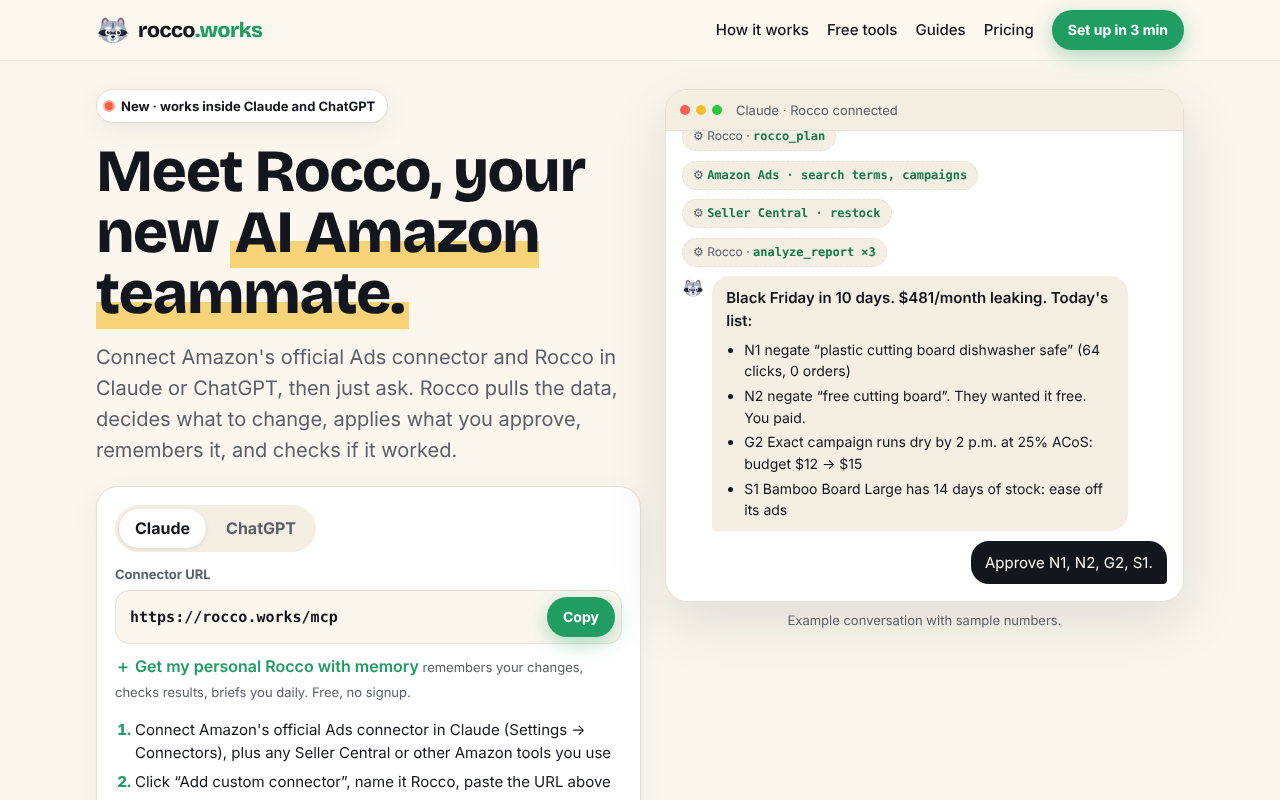
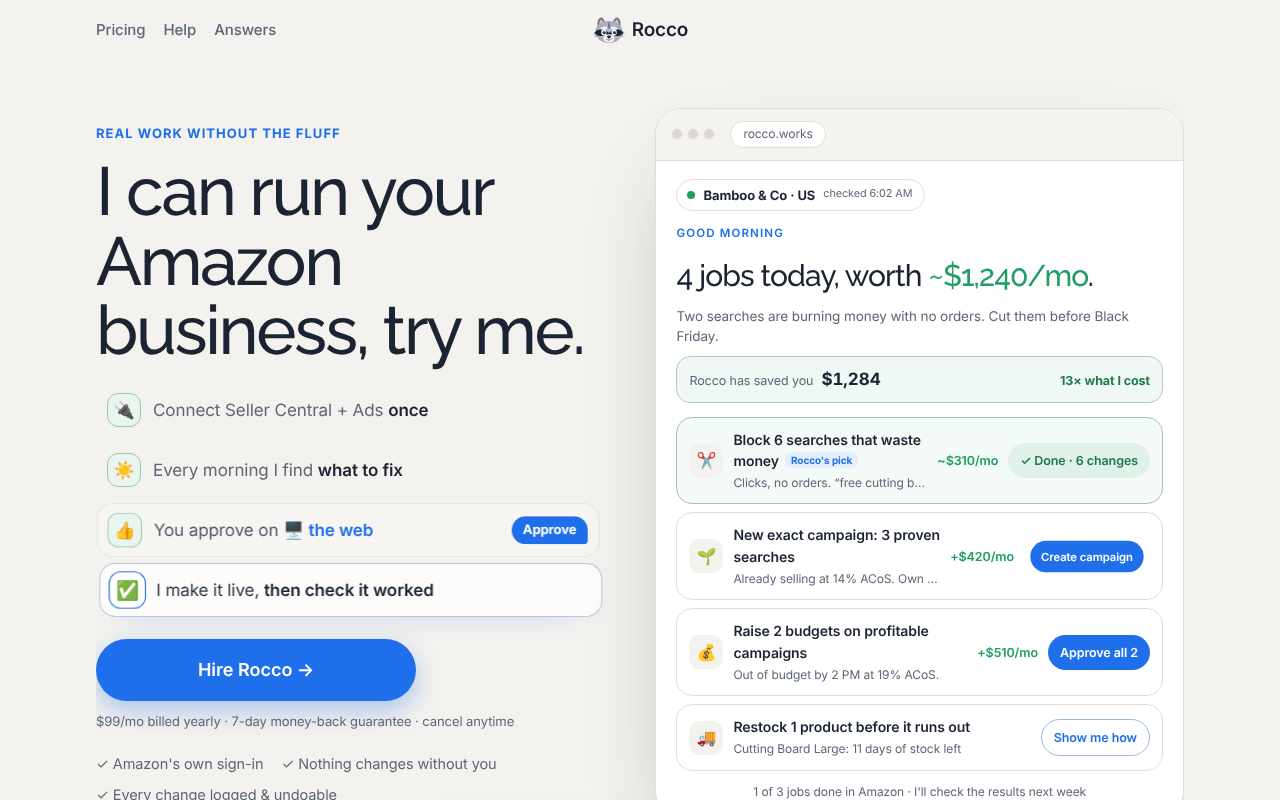
New share image and press screenshots matching the current product
Claude-Session: https://claude.ai/code/session_01VUuWKU3Gs11z4wAERQgKph

diff --git a/app/layout.tsx b/app/layout.tsx
@@ -17,8 +17,8 @@ export const metadata: Metadata = {
   metadataBase: new URL(SITE.url),
   title: { default: `${SITE.name}: ${SITE.tagline}`, template: `%s · ${SITE.name}` },
   description: SITE.description,
-  openGraph: { siteName: SITE.name, type: "website", images: [{ url: "/og.png", width: 1200, height: 630, alt: "Rocco: your AI Amazon teammate" }] },
-  twitter: { card: "summary_large_image", site: "@roccoworks", images: ["/og.png"] },
+  openGraph: { siteName: SITE.name, type: "website", images: [{ url: "/og-v2.png", width: 1200, height: 630, alt: "Rocco: I can run your Amazon business. Connect once, approve on iMessage, WhatsApp or Slack, Rocco makes the change." }] },
+  twitter: { card: "summary_large_image", site: "@roccoworks", images: ["/og-v2.png"] },
 };
 
 export default function RootLayout({ children }: { children: React.ReactNode }) {

diff --git a/docs/PROGRESS.md b/docs/PROGRESS.md
@@ -4,6 +4,13 @@ Newest entries at the top. Each session adds: date, what happened, decisions, ne
 
 ---
 
+## 2026-11-22 · New share image + press screenshots
+- The X/LinkedIn link card still showed the old "Your AI Amazon teammate · plugs into Claude & ChatGPT" image (a fixed file, never redone). New `/og-v2.png` (1200×630): headline, the 4 steps, approve in iMessage/WhatsApp/Slack, $99/mo billed yearly + 7-day guarantee, and a jobs dashboard mock. Metadata points to it (new URL so X fetches it fresh); `/og.png` overwritten too.
+- Press kit (/press) screenshots re-shot from the current site with a demo brand (Bamboo & Co): home, pricing, dashboard, change log. Old setup/playground shots no longer listed.
+- X caches cards per link: post `rocco.works/?v=2` (or wait ~a week) to get the new card on X.
+
+---
+
 ## 2026-11-22 · Founder test findings: connect fixes + routine list
 - Praveen ran the founder test. Findings and fixes:
   - **Reused dead DataDoe link** ("Invitation not found"): Rocco kept an invite after a failed attempt; DataDoe links are single use. Now a failed callback forgets the link, and an open link is only reused if DataDoe says it's still PENDING.
